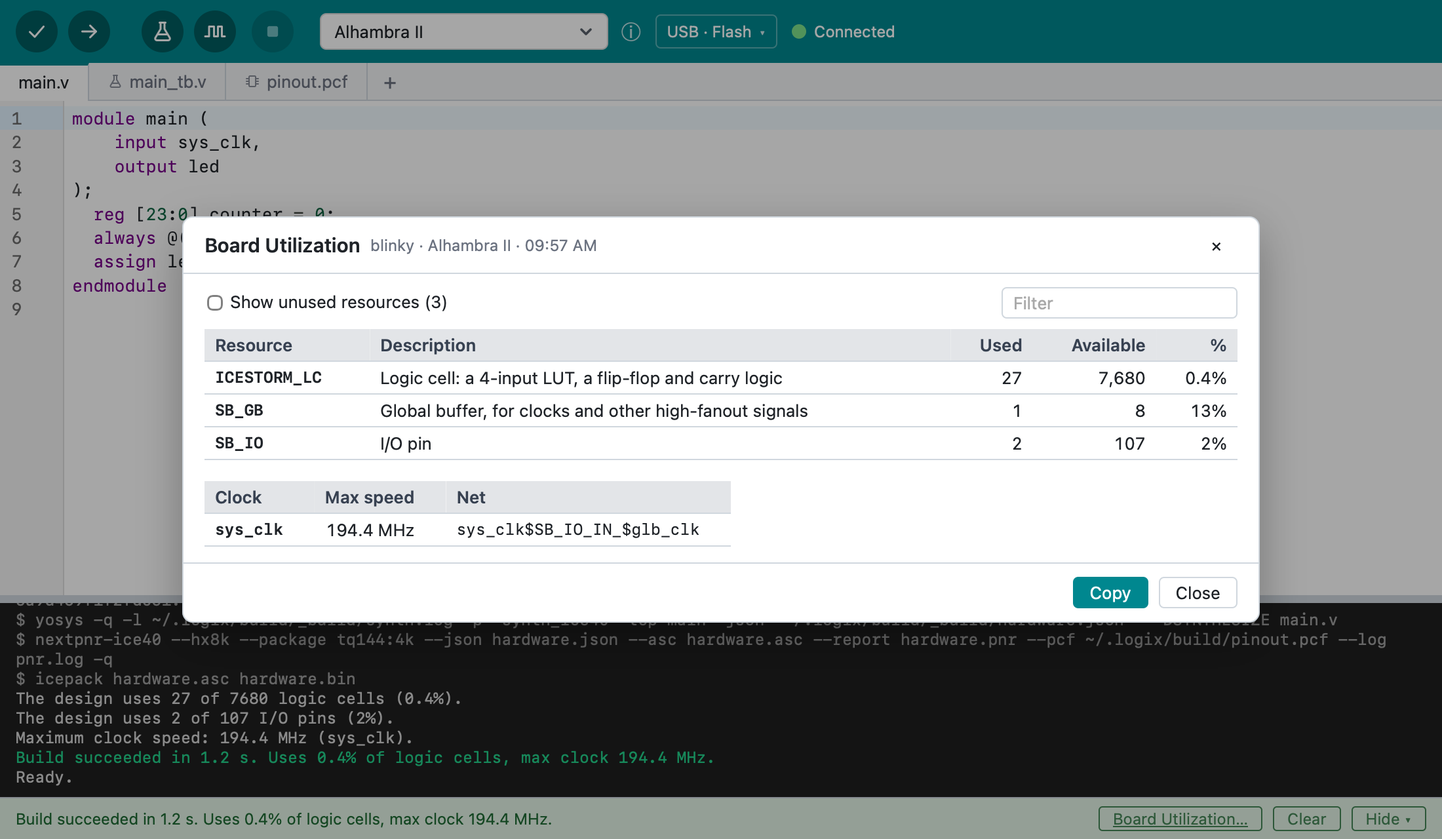
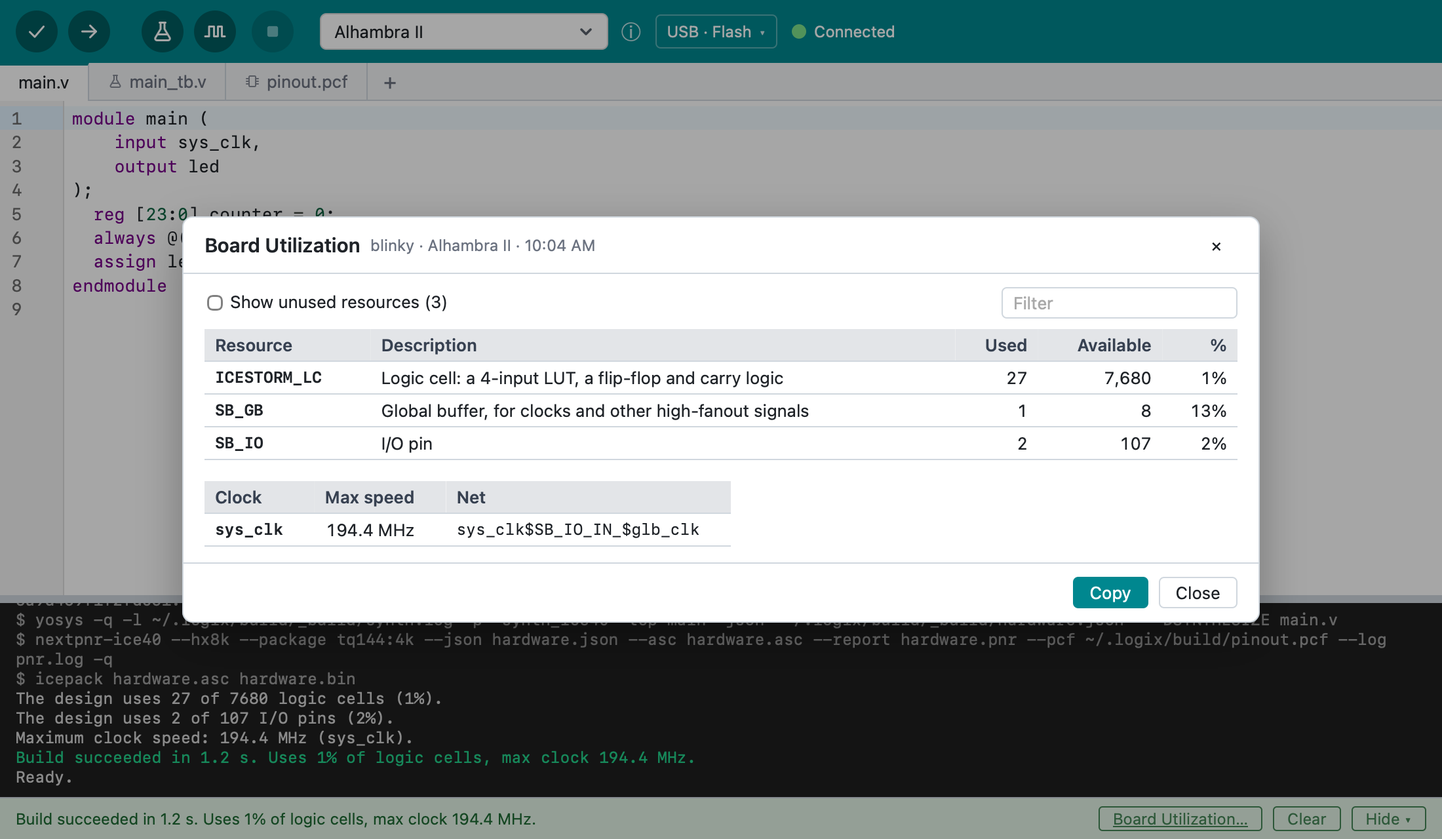
Board Utilization shows the engine's display_percent
Whole percent, rounded up, 0% only when none is used and 100% only when
all are (the engine's display_percent); the IDE still leaves an unused
resource's cells empty. The fake backend, tests, docs and screenshots
follow.

diff --git a/ui/src/lib/buildReport.test.ts b/ui/src/lib/buildReport.test.ts
@@ -6,10 +6,10 @@ import { percentText, reportRows, reportText, unusedCount } from "./buildReport"
 const ice40: BuildReport = {
   family: "ice40",
   resources: [
-    { name: "ICESTORM_LC", description: "Logic cell: a 4-input LUT, a flip-flop and carry logic", used: 27, available: 7680, percent: 0.4 },
-    { name: "ICESTORM_RAM", description: "Block RAM, 4 Kbit", used: 0, available: 32, percent: 0 },
-    { name: "NEW_THING", description: null, used: 3, available: 0, percent: null },
-    { name: "SB_IO", description: "I/O pin", used: 9, available: 107, percent: 8.4 },
+    { name: "ICESTORM_LC", description: "Logic cell: a 4-input LUT, a flip-flop and carry logic", used: 27, available: 7680, percent: 0.4, displayPercent: "1%" },
+    { name: "ICESTORM_RAM", description: "Block RAM, 4 Kbit", used: 0, available: 32, percent: 0, displayPercent: "0%" },
+    { name: "NEW_THING", description: null, used: 3, available: 0, percent: null, displayPercent: null },
+    { name: "SB_IO", description: "I/O pin", used: 9, available: 107, percent: 8.4, displayPercent: "9%" },
   ],
   clocks: [{ name: "sys_clk", net: "sys_clk$SB_IO_IN_$glb_clk", fmaxMhz: 194.3634 }],
   text: "The design uses 27 of 7680 logic cells (0.4%).",
@@ -31,15 +31,12 @@ describe("build report window", () => {
     expect(reportRows(ice40, false, "ram")).toEqual([]);
   });
 
-  it("formats shares, n/a for numbers the engine found invalid", () => {
-    const r = (used: number, percent: number | null) => ({
-      name: "X", description: null, used, available: 100, percent,
+  it("shows the engine's shares, empty when unused, n/a when invalid", () => {
+    const r = (used: number, displayPercent: string | null) => ({
+      name: "X", description: null, used, available: 100, percent: null, displayPercent,
     });
-    expect(percentText(r(0, 0))).toBe("");
-    expect(percentText(r(0, null))).toBe("");
-    expect(percentText(r(1, 0))).toBe("<0.1%");
-    expect(percentText(r(1, 0.4))).toBe("0.4%");
-    expect(percentText(r(1, 33.3))).toBe("33%");
+    expect(percentText(r(0, "0%"))).toBe("");
+    expect(percentText(r(1, "1%"))).toBe("1%");
     expect(percentText(r(5, null))).toBe("n/a");
   });
 
@@ -49,10 +46,10 @@ describe("build report window", () => {
       [
         "Board Utilization: blinky",
         "",
-        "Resource     Description                                             Used  Available     %",
-        "ICESTORM_LC  Logic cell: a 4-input LUT, a flip-flop and carry logic    27       7680  0.4%",
-        "NEW_THING                                                               3          0   n/a",
-        "SB_IO        I/O pin                                                    9        107    8%",
+        "Resource     Description                                             Used  Available    %",
+        "ICESTORM_LC  Logic cell: a 4-input LUT, a flip-flop and carry logic    27       7680   1%",
+        "NEW_THING                                                               3          0  n/a",
+        "SB_IO        I/O pin                                                    9        107   9%",
         "",
         "Clock    Max speed  Net",
         "sys_clk  194.4 MHz  sys_clk$SB_IO_IN_$glb_clk",

diff --git a/ui/e2e/fakeBackend.ts b/ui/e2e/fakeBackend.ts
@@ -395,16 +395,16 @@ function buildOutcome(files: ProjectFile[], board: string): {
       report: {
         family: "ice40",
         resources: [
-          { name: "ICESTORM_LC", description: "Logic cell: a 4-input LUT, a flip-flop and carry logic", used: 27, available: 7680, percent: 0.4 },
-          { name: "ICESTORM_PLL", description: "PLL (clock generator)", used: 0, available: 2, percent: 0.0 },
-          { name: "ICESTORM_RAM", description: "Block RAM, 4 Kbit", used: 0, available: 32, percent: 0.0 },
-          { name: "SB_GB", description: "Global buffer, for clocks and other high-fanout signals", used: 1, available: 8, percent: 12.5 },
-          { name: "SB_IO", description: "I/O pin", used: 2, available: 107, percent: 1.9 },
-          { name: "SB_WARMBOOT", description: "Warm boot: loads another bitstream from flash", used: 0, available: 1, percent: 0.0 },
+          { name: "ICESTORM_LC", description: "Logic cell: a 4-input LUT, a flip-flop and carry logic", used: 27, available: 7680, percent: 0.4, displayPercent: "1%" },
+          { name: "ICESTORM_PLL", description: "PLL (clock generator)", used: 0, available: 2, percent: 0.0, displayPercent: "0%" },
+          { name: "ICESTORM_RAM", description: "Block RAM, 4 Kbit", used: 0, available: 32, percent: 0.0, displayPercent: "0%" },
+          { name: "SB_GB", description: "Global buffer, for clocks and other high-fanout signals", used: 1, available: 8, percent: 12.5, displayPercent: "13%" },
+          { name: "SB_IO", description: "I/O pin", used: 2, available: 107, percent: 1.9, displayPercent: "2%" },
+          { name: "SB_WARMBOOT", description: "Warm boot: loads another bitstream from flash", used: 0, available: 1, percent: 0.0, displayPercent: "0%" },
         ],
         clocks: [{ name: "sys_clk", net: "sys_clk$SB_IO_IN_$glb_clk", fmaxMhz: 194.36 }],
-        text: "The design uses 27 of 7680 logic cells (0.4%).\nThe design uses 2 of 107 I/O pins (2%).\nMaximum clock speed: 194.4 MHz (sys_clk).",
-        summaryLine: "Uses 0.4% of logic cells, max clock 194.4 MHz.",
+        text: "The design uses 27 of 7680 logic cells (1%).\nThe design uses 2 of 107 I/O pins (2%).\nMaximum clock speed: 194.4 MHz (sys_clk).",
+        summaryLine: "Uses 1% of logic cells, max clock 194.4 MHz.",
       },
       cancelled: false,
         graphSvg: null,

diff --git a/ui/e2e/app.e2e.ts b/ui/e2e/app.e2e.ts
@@ -172,7 +172,7 @@ test("a new project for a board builds right away", async ({ page }) => {
   await expect(tab(page, "main_tb.v")).toBeVisible();
   await page.getByTitle(/^Verify/).click();
   await expect(status(page)).toContainText("Build succeeded");
-  await expect(status(page)).toContainText("0.4% of logic cells");
+  await expect(status(page)).toContainText("1% of logic cells");
   // The output ends with the result, then Ready.
   await expect(output(page)).toContainText(/Build succeeded in .*\s*Ready\.\s*$/);
 });
@@ -183,7 +183,7 @@ test("Board Utilization shows the used resources, all on request, and copies the
   await start(page);
   await chooseBoard(page);
   await page.getByTitle(/^Verify/).click();
-  await expect(status(page)).toContainText("Uses 0.4% of logic cells, max clock 194.4 MHz.");
+  await expect(status(page)).toContainText("Uses 1% of logic cells, max clock 194.4 MHz.");
   // The output has the engine's report, as it words it.
   await expect(output(page)).toContainText("The design uses 2 of 107 I/O pins (2%).");
   // Right after a build, the status bar's link shows its report.

diff --git a/ui/src/lib/buildReport.ts b/ui/src/lib/buildReport.ts
@@ -33,17 +33,13 @@ export function unusedCount(report: BuildReport): number {
 }
 
 /**
- * A share for the table: empty for an unused resource (so the used ones
- * stand out), "n/a" when the engine found nextpnr's numbers invalid,
- * "<0.1%" for something used but less than that, one decimal under 1%,
- * whole numbers otherwise.
+ * A share for the table: the engine's (whole percent, rounded up, 100%
+ * only when all are used), empty for an unused resource (so the used ones
+ * stand out), "n/a" when the engine found nextpnr's numbers invalid.
  */
 export function percentText(r: ReportResource): string {
   if (r.used === 0) return "";
-  if (r.percent === null) return "n/a";
-  if (r.used > 0 && r.percent < 0.1) return "<0.1%";
-  if (r.percent > 0 && r.percent < 1) return `${r.percent.toFixed(1)}%`;
-  return `${Math.round(r.percent)}%`;
+  return r.displayPercent ?? "n/a";
 }
 
 export function mhzText(mhz: number): string {

diff --git a/ui/src/lib/backend.ts b/ui/src/lib/backend.ts
@@ -245,6 +245,8 @@ export interface BuildReport {
     used: number;
     available: number;
     percent: number | null;
+    /** The engine's share for people, e.g. "1%" (null when percent is). */
+    displayPercent: string | null;
   }[];
   /** Each clock, from the engine's `clocks_summary`: plain name, net, speed. */
   clocks: { name: string; net: string; fmaxMhz: number }[];

diff --git a/src-tauri/src/engine/task.rs b/src-tauri/src/engine/task.rs
@@ -637,6 +637,7 @@ fn report(family: &str, build: &Value) -> BuildReport {
                         used: r["used"].as_u64().unwrap_or(0),
                         available: r["available"].as_u64().unwrap_or(0),
                         percent: r["percent"].as_f64(),
+                        display_percent: r["display_percent"].as_str().map(String::from),
                     })
                 })
                 .collect()
@@ -768,7 +769,7 @@ mod tests {
     fn reads_the_build_report() {
         let build = json!({
             "resources": [
-                {"name": "ICESTORM_LC", "description": "Logic cell", "used": 27, "available": 7680, "percent": 0.4},
+                {"name": "ICESTORM_LC", "description": "Logic cell", "used": 27, "available": 7680, "percent": 0.4, "display_percent": "1%"},
                 {"name": "odd", "used": 5, "available": 0, "percent": null}
             ],
             "clocks_summary": [
@@ -787,14 +788,16 @@ mod tests {
                     description: Some("Logic cell".into()),
                     used: 27,
                     available: 7680,
-                    percent: Some(0.4)
+                    percent: Some(0.4),
+                    display_percent: Some("1%".into())
                 },
                 Resource {
                     name: "odd".into(),
                     description: None,
                     used: 5,
                     available: 0,
-                    percent: None
+                    percent: None,
+                    display_percent: None
                 }
             ]
         );

diff --git a/src-tauri/src/outcome.rs b/src-tauri/src/outcome.rs
@@ -126,6 +126,8 @@ pub struct Resource {
     pub used: u64,
     pub available: u64,
     pub percent: Option<f64>,
+    /// The engine's share for people, such as "1%" (`display_percent`).
+    pub display_percent: Option<String>,
 }
 
 #[derive(Debug, Clone, PartialEq, Serialize)]

diff --git a/CLAUDE.md b/CLAUDE.md
@@ -147,8 +147,8 @@ Don't run `npm run tauri build` locally; installers come from the GitHub workflo
 - **Standard examples** (the user's decision, 2026-11-09, replacing the generated ones of 2026-11-08): every catalog board's `blinky` and `bare-minimum` are written by an AI agent from an AI spec, [`spec/examples/`](spec/examples/README.md) (`README.md`: the process, inputs, checks and the prompt; `COMMON.md`: what all share; one lowercase file per example; capital names are the shared files, so no example is named `readme`, `common` or `catalog`), and each board's entry in the engine's catalog (`scripts/board-info.sh`), its `ai_hints` included. Never from existing examples, old versions or code: the code generator (`generate.rs`, `scripts/generate-examples.sh`, its catalog snapshot and up-to-date test) was removed because it ignored `ai_hints` (code can't read free text), so it repeated their knowledge in its own code, and it carried choices taken from the hand-written examples. When the spec and a board's data aren't enough, the fix goes into the catalog (a field or an `ai_hints` line) or the spec, never one board's example (writing them found three boards with an LED on an RGB LED driver pad and no hint: the hint was added in the catalog). `spec/examples/CATALOG.json` is the `board-info.sh` output they were written from, to tell later which boards changed; it isn't in `examples/`, which the app embeds. Checked by `real_examples_build` (every example builds and passes its testbench). Status (catalog 25cc472, 2026-11-09): 161 (`bare-minimum` for the 81 boards, `blinky` for the 80 with an LED; the Tang Primer 20K Lite has no LED and keeps its hand-written `blinky`, which the AI never touches). The pin files are written in each toolchain's format until Logix Engine has a tool for it (deferred until the official release; the engine's docs/requirements.md, open questions).
 - **Opening an example** gives an unsaved project (`dir: null`) with `templateDir` set to the folder it was written to (`~/.logix/example/`, replaced by the next example) and the board set. The first save asks for a location and copies the example's other files (e.g. `main_tb.gtkw`) from `templateDir`; its project file and hidden files are skipped. UI: `ui/src/lib/ExamplesDialog.svelte`, with search and grouping in `ui/src/lib/examples.ts`.
 - **Verify / Upload** (toolbar, Cmd+R / Cmd+U, Project menu): `run_task` builds from the project's **in-memory** files (unsaved edits included) in `~/.logix/build/`. `src-tauri/src/build_dir.rs` (plain Rust, tested) fills that folder with the files and the other contents of the project folder (or example template), subfolders included (the engine builds only the files Logix lists), except nested projects (folders with a project file, `project::is_project_dir`; `CopyMode::Build`). The folder is reused for the same project (key = project folder) so `_build/` (the engine's build folder) speeds up repeated builds; another project starts from an empty folder. Every task runs on the engine (`engine::run_task`, `engine/task.rs`) with that folder as `source_folder`, `_build` as `build_folder` (it needs "build" in one of its last two names; a `logix` subfolder under it was dropped as unneeded, the user's decision), top module `main`, the project's `.v`/`.sv` files minus testbenches as `source_files` (include files are found by the engine), and the pin file as `constraint_file`: the first one of the board's kind (`Board.pin_extension`, from the engine's `get_catalog` families: `.pcf` iCE40, `.lpf` ECP5, `.cst` Gowin, `.xdc` Xilinx 7-series, any case; `build_dir::constraint_file`), else the first pin file of any kind. The engine refuses a pin file of another family's kind (each family's place-and-route tool reads only its own format and takes the format from its option, not the file name, so before this check a PCF renamed to `.lpf` built on iCE40 as if nothing were wrong); the engine says so plainly ("The pin file pinout.lpf is the wrong kind for the Alhambra II: iCE40 FPGAs use .pcf pin files."); no fix is suggested, since each family's pin file format is different and a rename is rarely all it takes (the user's decision, 2026-11-07: an engine action `rename_constraint_file` was dropped for this); the IDE shows the message, as for every engine error (before 2026-11-07 the IDE rewrote both messages with regular expressions, `friendly`). No pin file: the IDE's own error `NO_CONSTRAINT_FILE`, worded for people. A board that isn't in the engine's catalog is refused with a plain message before anything runs. Only one task runs at a time (`AppState.task`).
-- **Verify = lint + build**: for `Task::Build`, the engine's `lint` runs first (unless "Show lint warnings on Verify" is off) for warnings and clearer errors. Lint fails for warnings too, so its result never stops the build; only `build` decides success. Upload is `build` then `program_board` (not attempted if the build failed). Repeated problems (lint and build flagging the same line) are dropped by `dedup`, keeping lint's. The engine's diagnostics map one to one (`info` shows as a warning); a failed step without an located error adds its message, plus the action's description (e.g. "No Alhambra II is connected. Connect the Alhambra II by USB, then retry."), as an error without a location, and its action code goes to `TaskOutcome.action`. The console shows the engine's live output: command lines dimmed with `$`, error lines red, warnings yellow, and the message of a failed step in red (not for design errors, whose message repeats the tool's line, and not when it is the task's first error, which the closing line "Build failed: …" shows: printed both ways, it read twice, the user's report, 2026-11-07). The closing line (the status line, also the output's last line) repeats the first error only when it has no location: a located one is the tool's own line just above, so it reads "Build failed." ("The testbench failed. GTKWave shows the signals." for a failing testbench; `outcomeText`; the user's choice, 2026-11-07). A line the tool prints over (the engine's `redraw: true` in `logix/output`, such as each state of a progress bar) is shown at once and replaced in place by the same tool's next line, so progress stays on one line and updates as in a terminal (iceprog's last address line is replaced by its `done.`); any other line in between keeps it (`TaskEvent::Line`'s `tool` and `redraw`, from `Console` in `engine/task.rs`; `Redraws` in `ui/src/lib/redraw.ts`). The IDE log file gets only the lines that stay. A first version held each redraw line until the next one arrived, so the line being redrawn was never on screen. Before the engine marked redraws, the IDE guessed them by the pattern `label [bar] n%`, which missed iceprog's `addr 0x… n%` lines (hundreds of lines per upload). The engine's phases ("Synthesizing", "Placing and routing", "Writing flash" with its percentage) go to the status bar as `TaskEvent::Progress`. After success, the report is the engine's (decided 2026-11-10: the engine words it once for every frontend): the output gets `build`'s `report` as is ("The design uses 27 of 7680 logic cells (0.4%)." and "Maximum clock speed: 194.4 MHz (sys_clk).", as Arduino's "Sketch uses …"), and the status bar its `report_summary` after the IDE's own "Build succeeded in 2.4 s." The IDE keeps no FPGA family names, descriptions or wording of its own; clock names come from `clocks_summary` (Xilinx clocks get the name synthesis gave the net, such as `o100`, as in Apio, until the openxc7 tools give the signal's name).
-- **Board Utilization** (the user's design, 2026-11-10; named Build Report at first, renamed by the user): `ui/src/lib/BuildReport.svelte`, a window with a build's report (title: project · board · time). Project > Board Utilization… (enabled with a project open) always builds first, as Apio's `apio report` does: `Task::Report`, a build without lint (the engine skips it when up to date, so it's instant then), then the window, so the report is of the files as they are now; a failed build shows its errors as Verify's do, and no window. The status bar's "Board Utilization…" link, after a Verify, Upload or report build that has a report, shows that build's report without building again. The last report is dropped when a build, upload or report build fails or stops, or another project opens (Upload's report is its build's, even when programming fails). A table of `build`'s `resources`: the toolchain's name first (what people search for and quote), the engine's description, used (empty when 0), available and `percent` (empty for an unused resource; "n/a" when the engine found nextpnr's numbers invalid, `null`; "<0.1%" for something used but less), unused rows not greyed out (the user's choice, 2026-11-10), the used ones by default with "Show unused resources (n)" for the rest (most are unused on Xilinx FPGAs; kept between builds), and a filter on name and description. Then the clocks: name, maximum speed, net. Copy gives the rows shown and the clocks as text columns (`reportText` in `ui/src/lib/buildReport.ts`, with `reportRows`, `percentText`).
+- **Verify = lint + build**: for `Task::Build`, the engine's `lint` runs first (unless "Show lint warnings on Verify" is off) for warnings and clearer errors. Lint fails for warnings too, so its result never stops the build; only `build` decides success. Upload is `build` then `program_board` (not attempted if the build failed). Repeated problems (lint and build flagging the same line) are dropped by `dedup`, keeping lint's. The engine's diagnostics map one to one (`info` shows as a warning); a failed step without an located error adds its message, plus the action's description (e.g. "No Alhambra II is connected. Connect the Alhambra II by USB, then retry."), as an error without a location, and its action code goes to `TaskOutcome.action`. The console shows the engine's live output: command lines dimmed with `$`, error lines red, warnings yellow, and the message of a failed step in red (not for design errors, whose message repeats the tool's line, and not when it is the task's first error, which the closing line "Build failed: …" shows: printed both ways, it read twice, the user's report, 2026-11-07). The closing line (the status line, also the output's last line) repeats the first error only when it has no location: a located one is the tool's own line just above, so it reads "Build failed." ("The testbench failed. GTKWave shows the signals." for a failing testbench; `outcomeText`; the user's choice, 2026-11-07). A line the tool prints over (the engine's `redraw: true` in `logix/output`, such as each state of a progress bar) is shown at once and replaced in place by the same tool's next line, so progress stays on one line and updates as in a terminal (iceprog's last address line is replaced by its `done.`); any other line in between keeps it (`TaskEvent::Line`'s `tool` and `redraw`, from `Console` in `engine/task.rs`; `Redraws` in `ui/src/lib/redraw.ts`). The IDE log file gets only the lines that stay. A first version held each redraw line until the next one arrived, so the line being redrawn was never on screen. Before the engine marked redraws, the IDE guessed them by the pattern `label [bar] n%`, which missed iceprog's `addr 0x… n%` lines (hundreds of lines per upload). The engine's phases ("Synthesizing", "Placing and routing", "Writing flash" with its percentage) go to the status bar as `TaskEvent::Progress`. After success, the report is the engine's (decided 2026-11-10: the engine words it once for every frontend): the output gets `build`'s `report` as is ("The design uses 27 of 7680 logic cells (1%)." and "Maximum clock speed: 194.4 MHz (sys_clk).", as Arduino's "Sketch uses …"), and the status bar its `report_summary` after the IDE's own "Build succeeded in 2.4 s." The IDE keeps no FPGA family names, descriptions or wording of its own; clock names come from `clocks_summary` (Xilinx clocks get the name synthesis gave the net, such as `o100`, as in Apio, until the openxc7 tools give the signal's name).
+- **Board Utilization** (the user's design, 2026-11-10; named Build Report at first, renamed by the user): `ui/src/lib/BuildReport.svelte`, a window with a build's report (title: project · board · time). Project > Board Utilization… (enabled with a project open) always builds first, as Apio's `apio report` does: `Task::Report`, a build without lint (the engine skips it when up to date, so it's instant then), then the window, so the report is of the files as they are now; a failed build shows its errors as Verify's do, and no window. The status bar's "Board Utilization…" link, after a Verify, Upload or report build that has a report, shows that build's report without building again. The last report is dropped when a build, upload or report build fails or stops, or another project opens (Upload's report is its build's, even when programming fails). A table of `build`'s `resources`: the toolchain's name first (what people search for and quote), the engine's description, used (empty when 0), available and the engine's `display_percent` (whole percent, rounded up, "100%" only when all are used, the user's rule, 2026-11-10; empty for an unused resource, which is the IDE's choice; "n/a" when the engine found nextpnr's numbers invalid, `null`), unused rows not greyed out (the user's choice, 2026-11-10), the used ones by default with "Show unused resources (n)" for the rest (most are unused on Xilinx FPGAs; kept between builds), and a filter on name and description. Then the clocks: name, maximum speed, net. Copy gives the rows shown and the clocks as text columns (`reportText` in `ui/src/lib/buildReport.ts`, with `reportRows`, `percentText`).
 - **Run Tests / Simulate** (toolbar flask and waveform icons, Shift+Cmd+T / Option+Cmd+T, Project menu, right-click on a testbench tab): `Task::Test` runs the engine's `test` with the chosen testbench or all `*_tb.v`/`*_tb.sv` as `testbench_files` (the engine runs every testbench, each stopped at its first failure, with a 10-minute default limit); each result becomes a `TestbenchResult`, its diagnostics (`$error`, `$fatal`, assertion failure lines, at file, line and time) are marked, and an `ending` of `timeout`, `sim_time_limit` or `no_finish` adds a plain note (`ending_note`). `Task::Simulate` runs the engine's `simulate` on one testbench with `layout_file` `<testbench stem>.gtkw` next to it: the engine runs it to the end, writes a default layout there unless the user saved one (zoomed around the first failure), and starts GTKWave detached, failing or not. A failing simulation also returns its `TestbenchResult`, so the status says "The testbench failed (GTKWave shows the signals): …" (`outcomeText`). Simulate uses the open testbench tab or the project's only testbench. `run_task` only accepts project files matching `project::is_testbench`. Testbenches follow the engine's rules (report failures with `$error`, never call `$dumpfile`; see the engine's `docs/tool-api.md`, Writing testbenches). New `*_tb.v` files start from a testbench template (`starterText` in `workingProject.ts`).
 - **Auto Format** (Tools menu, Cmd+T, as in the Arduino IDE; Cmd+T was taken from Run Tests for this): formats the open Verilog/SystemVerilog file with the engine's `format` (Verible; `engine/format.rs`). `format_file` writes the text into a one-file scratch folder (`build_dir::prepare_single`, `~/.logix/format/`), formats it there, shows Verible's command line in the console, and returns the result. The editor applies it as one undoable edit (`Editor.replaceText`) and leaves the file unsaved. Messages match Arduino's: "Auto Format finished." / "No changes necessary for Auto Format." Verible's errors come back as the engine's diagnostics and are marked like build errors.
 - **Matching is the engine's** (the engine's `docs/requirements.md`, Device selection): `list_devices` gives each device an opaque, short-lived `id` and the boards it may be, each variant with a match level, `strong`, `possible` or `weak`: what the match means for the user, never its cause. The engine's criteria are internal and change without notice (the user's rule, 2026-11-05), so the IDE only shows and compares levels (`MatchLevel` in `engine/devices.rs`; unknown values count as weak) and never says why a device matched. The IDE has no USB filter logic of its own (it used to, and got the engine's rules slightly wrong, e.g. ignoring `serial_regex`). `engine/devices.rs` reads it (`UsbDevice` with `boards: [{ board, level }]`, the strongest of a board's variants, and `buildMatch`; `DeviceList` with `unreachable`, devices that need a driver or permissions, with the engine's fix).

diff --git a/docs/quick-start.md b/docs/quick-start.md
@@ -22,7 +22,7 @@ Click the **Verify** button ![Verify button](images/icon-verify.png){ .toolbar-i
 common mistakes, builds it, and shows how much of the FPGA it uses:
 
 ```
-Build succeeded in 2.4 s. Uses 0.4% of logic cells, max clock 194.4 MHz.
+Build succeeded in 2.4 s. Uses 1% of logic cells, max clock 194.4 MHz.
 ```
 
 If there's a mistake, the line is marked in the editor and the status bar
